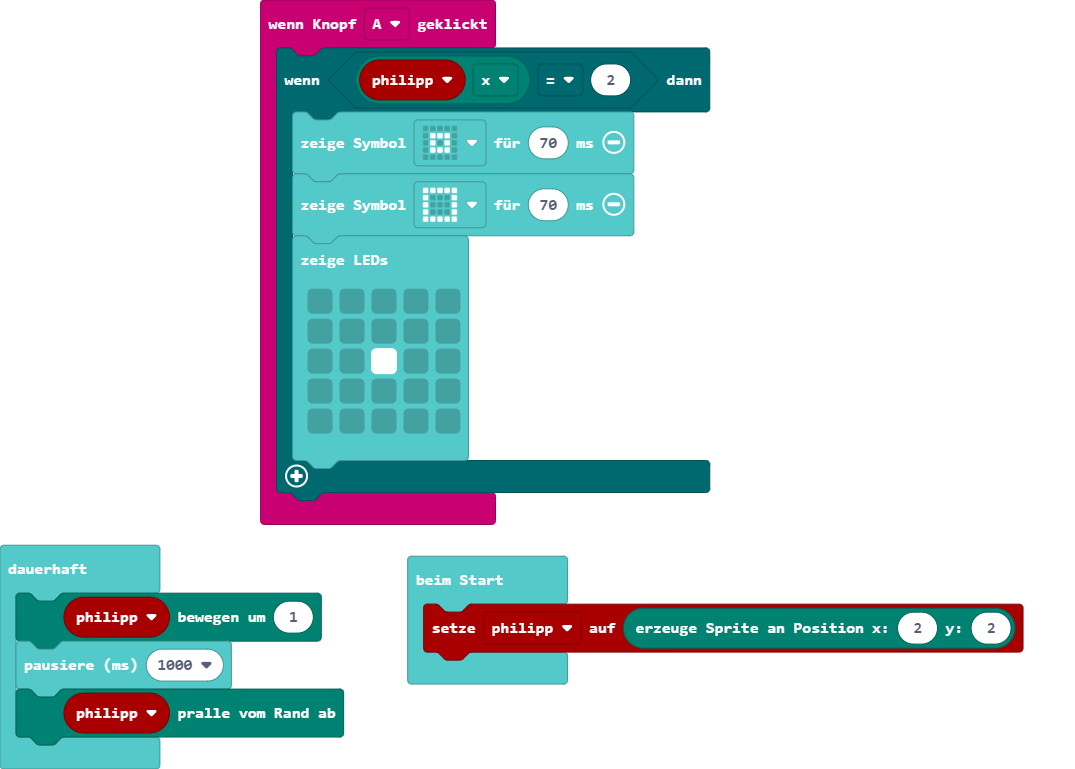
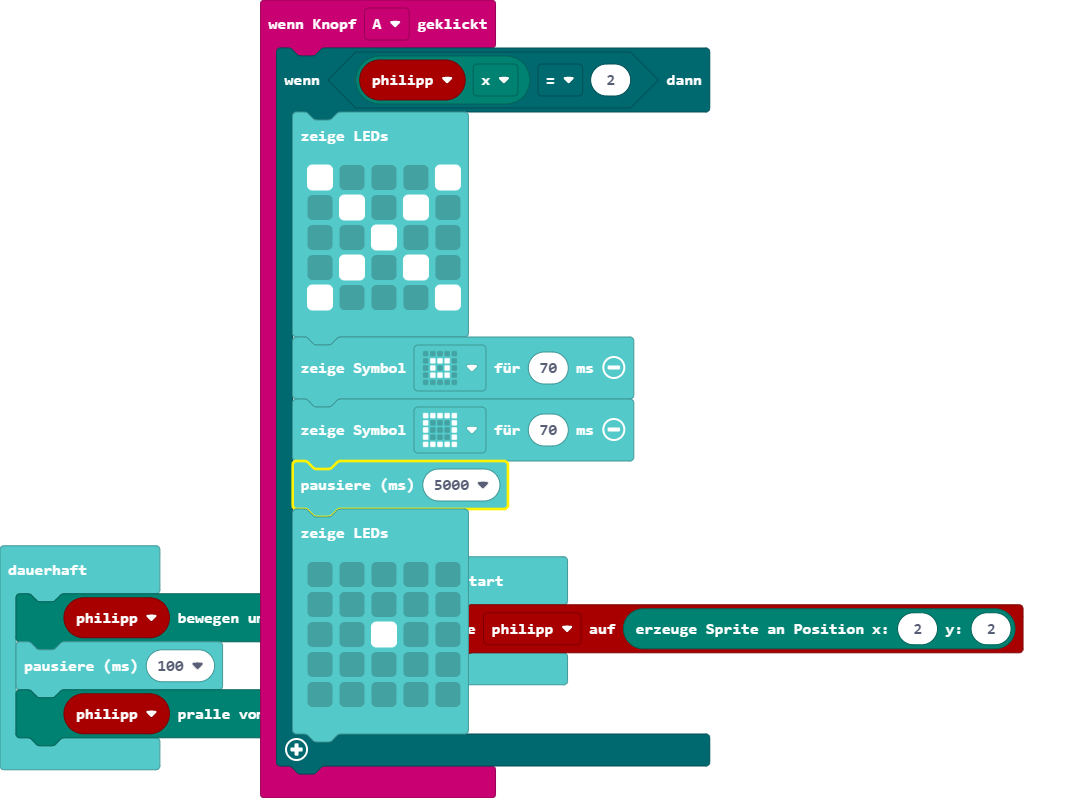
Aktualisiere main.blocks, main.ts

Changed region(s): [[0.0, 0.0312, 0.9516, 1.0], [0.2456, 0.0312, 0.2763, 0.0624]]

diff --git a/main.ts b/main.ts
@@ -1,7 +1,15 @@
 input.onButtonPressed(Button.A, function () {
     if (philipp.get(LedSpriteProperty.X) == 2) {
+        basic.showLeds(`
+            # . . . #
+            . # . # .
+            . . # . .
+            . # . # .
+            # . . . #
+            `)
         basic.showIcon(IconNames.SmallSquare, 70)
         basic.showIcon(IconNames.Square, 70)
+        basic.pause(5000)
         basic.showLeds(`
             . . . . .
             . . . . .
@@ -15,6 +23,6 @@ let philipp: game.LedSprite = null
 philipp = game.createSprite(2, 2)
 basic.forever(function () {
     philipp.move(1)
-    basic.pause(1000)
+    basic.pause(100)
     philipp.ifOnEdgeBounce()
 })
